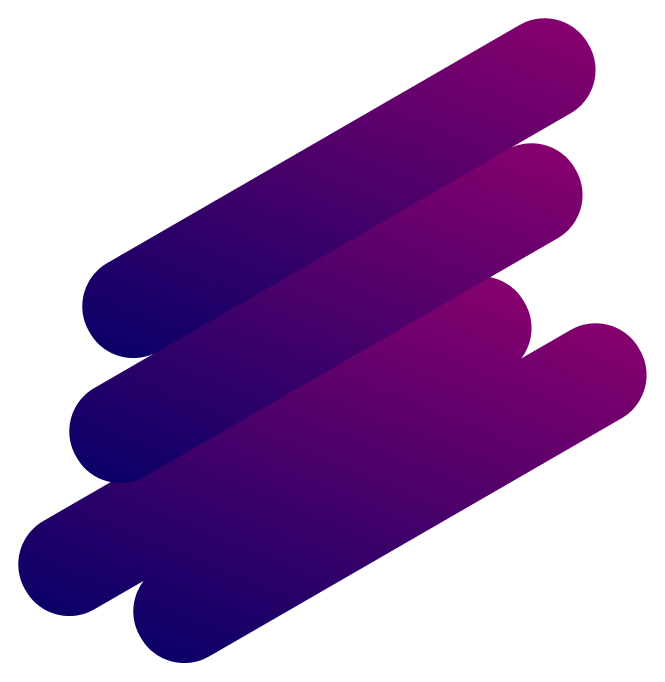
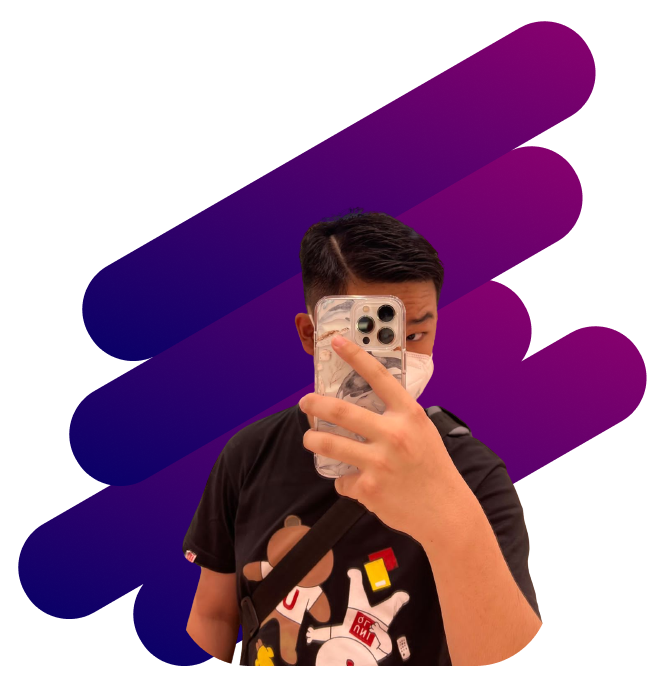
add profile picture

diff --git a/pages/home/style.css b/pages/home/style.css
@@ -14,12 +14,14 @@
     left: 37%;   
 }
 
+
 .backroundimg {
     width: 40%;
     height: auto;
     position: absolute;
-    bottom: 5%;
-    right: 50px;   
+    bottom: 10%;
+    right: 50px; 
+      
 }
 
 #text-container {
